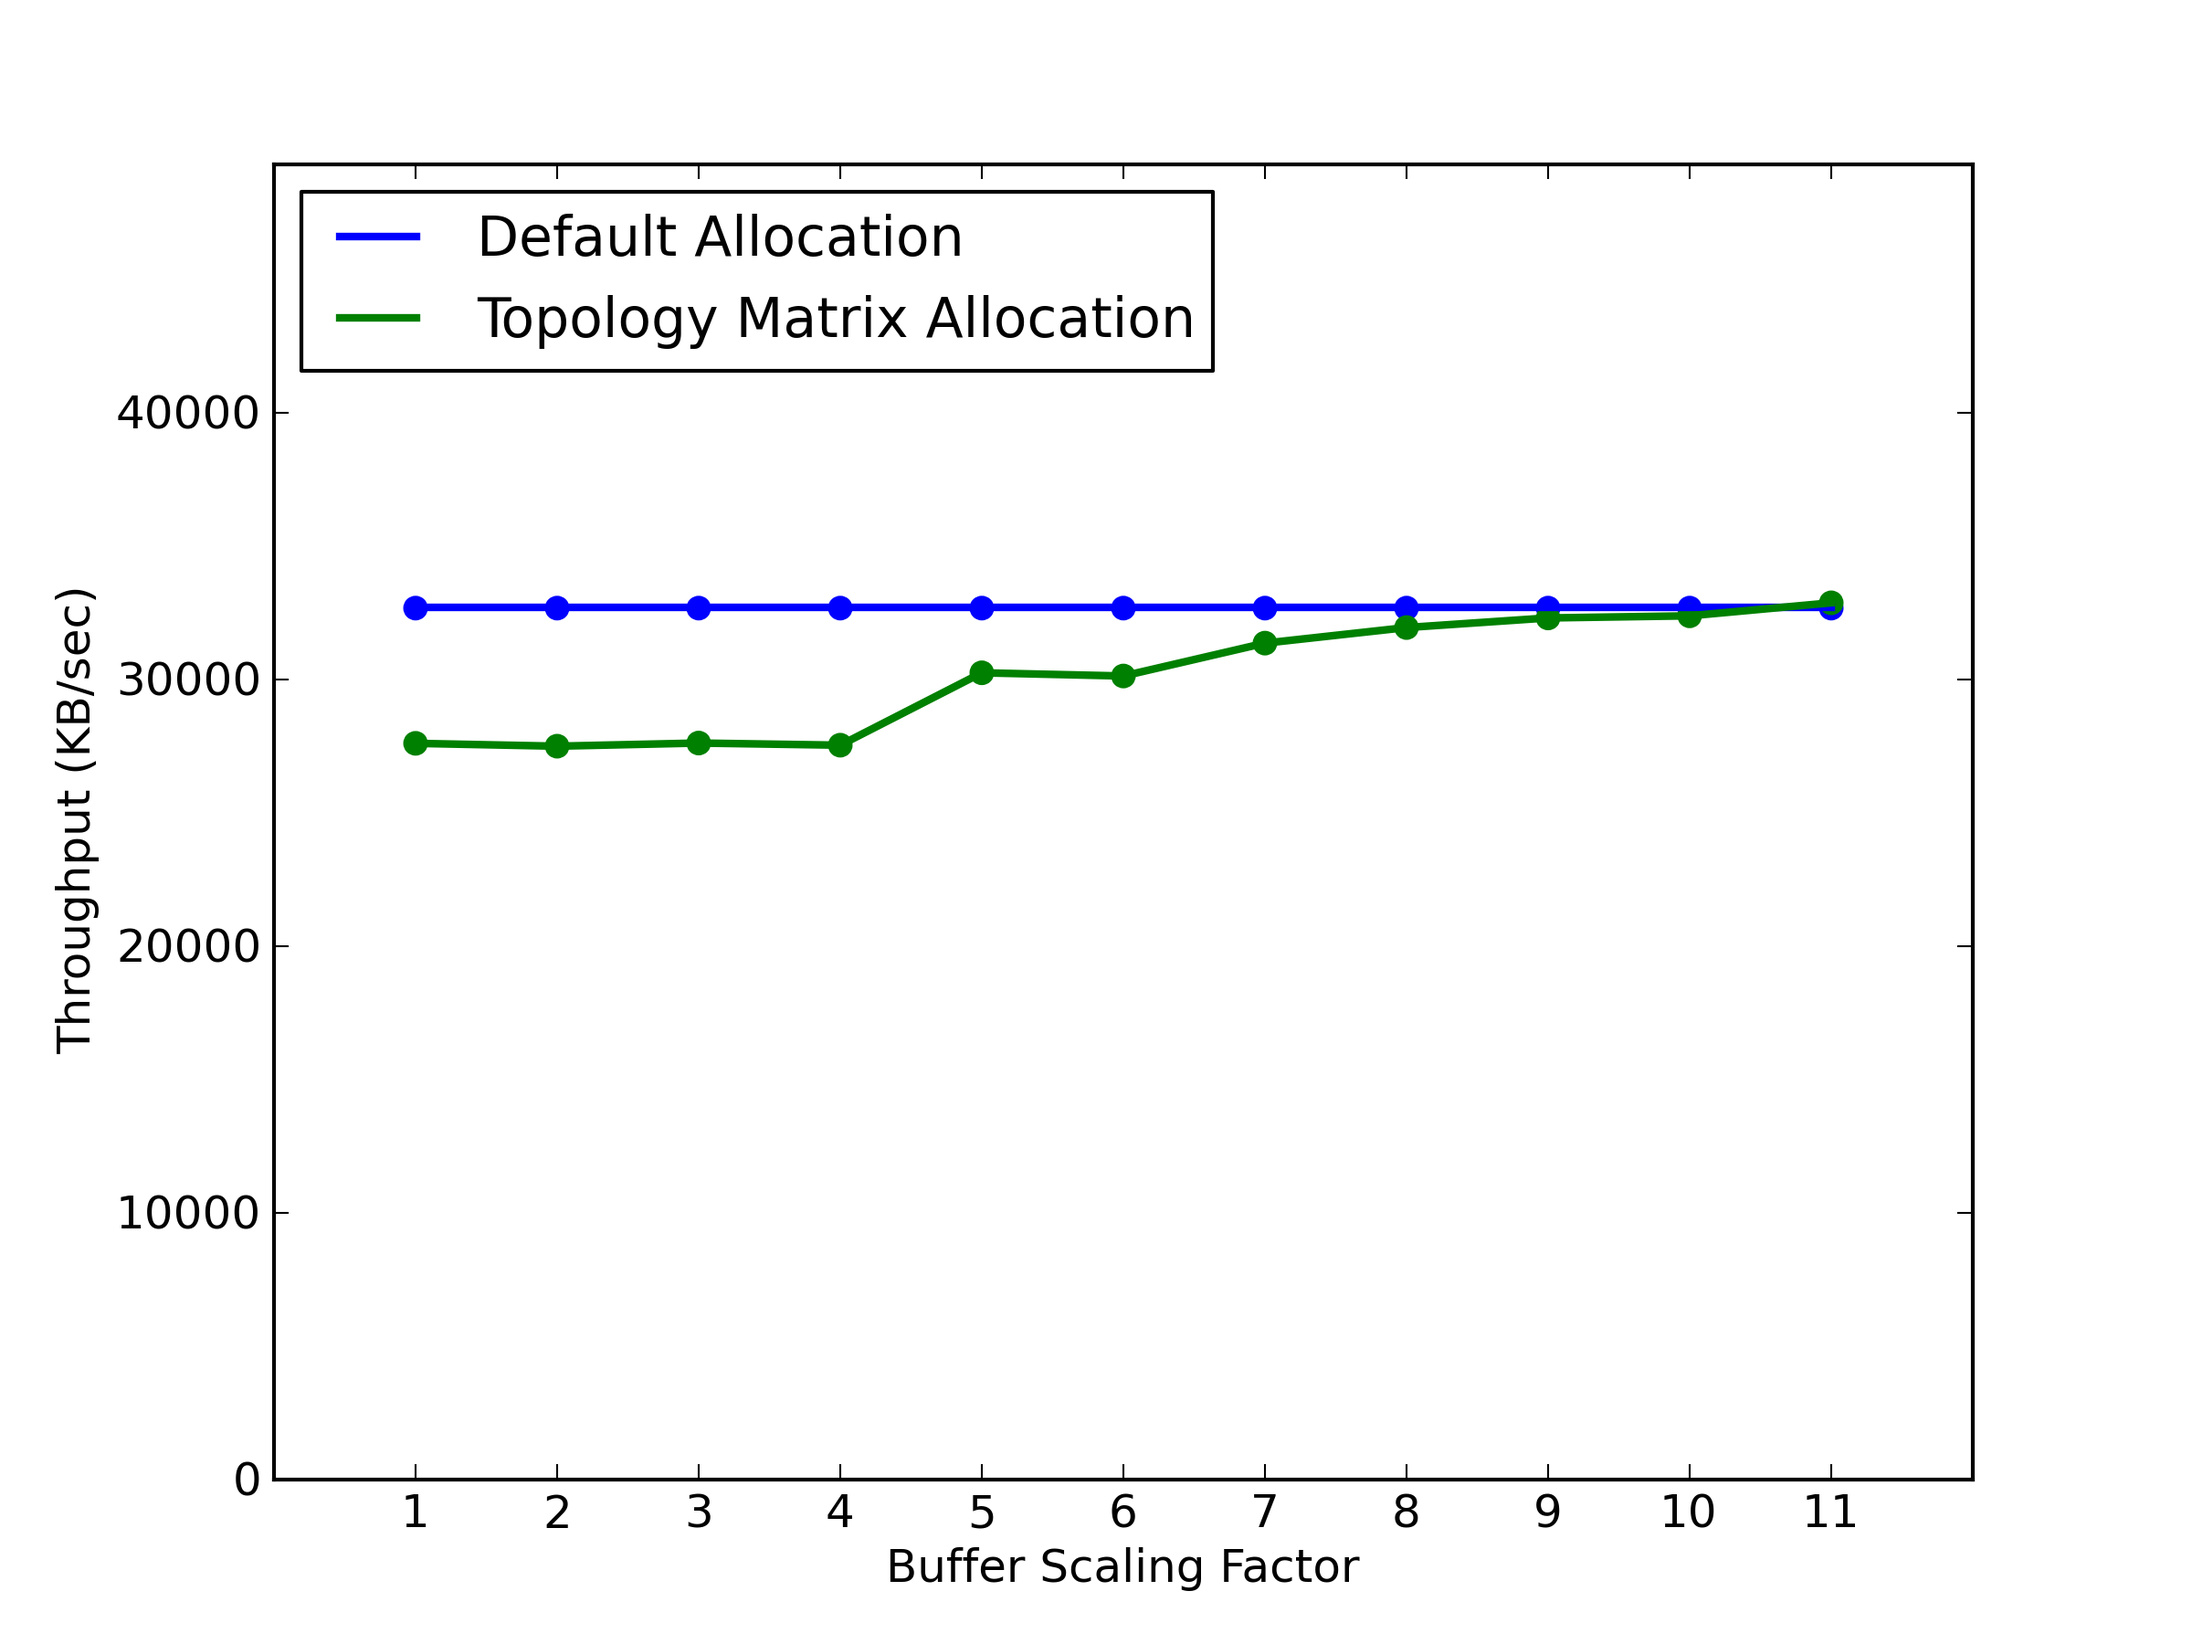
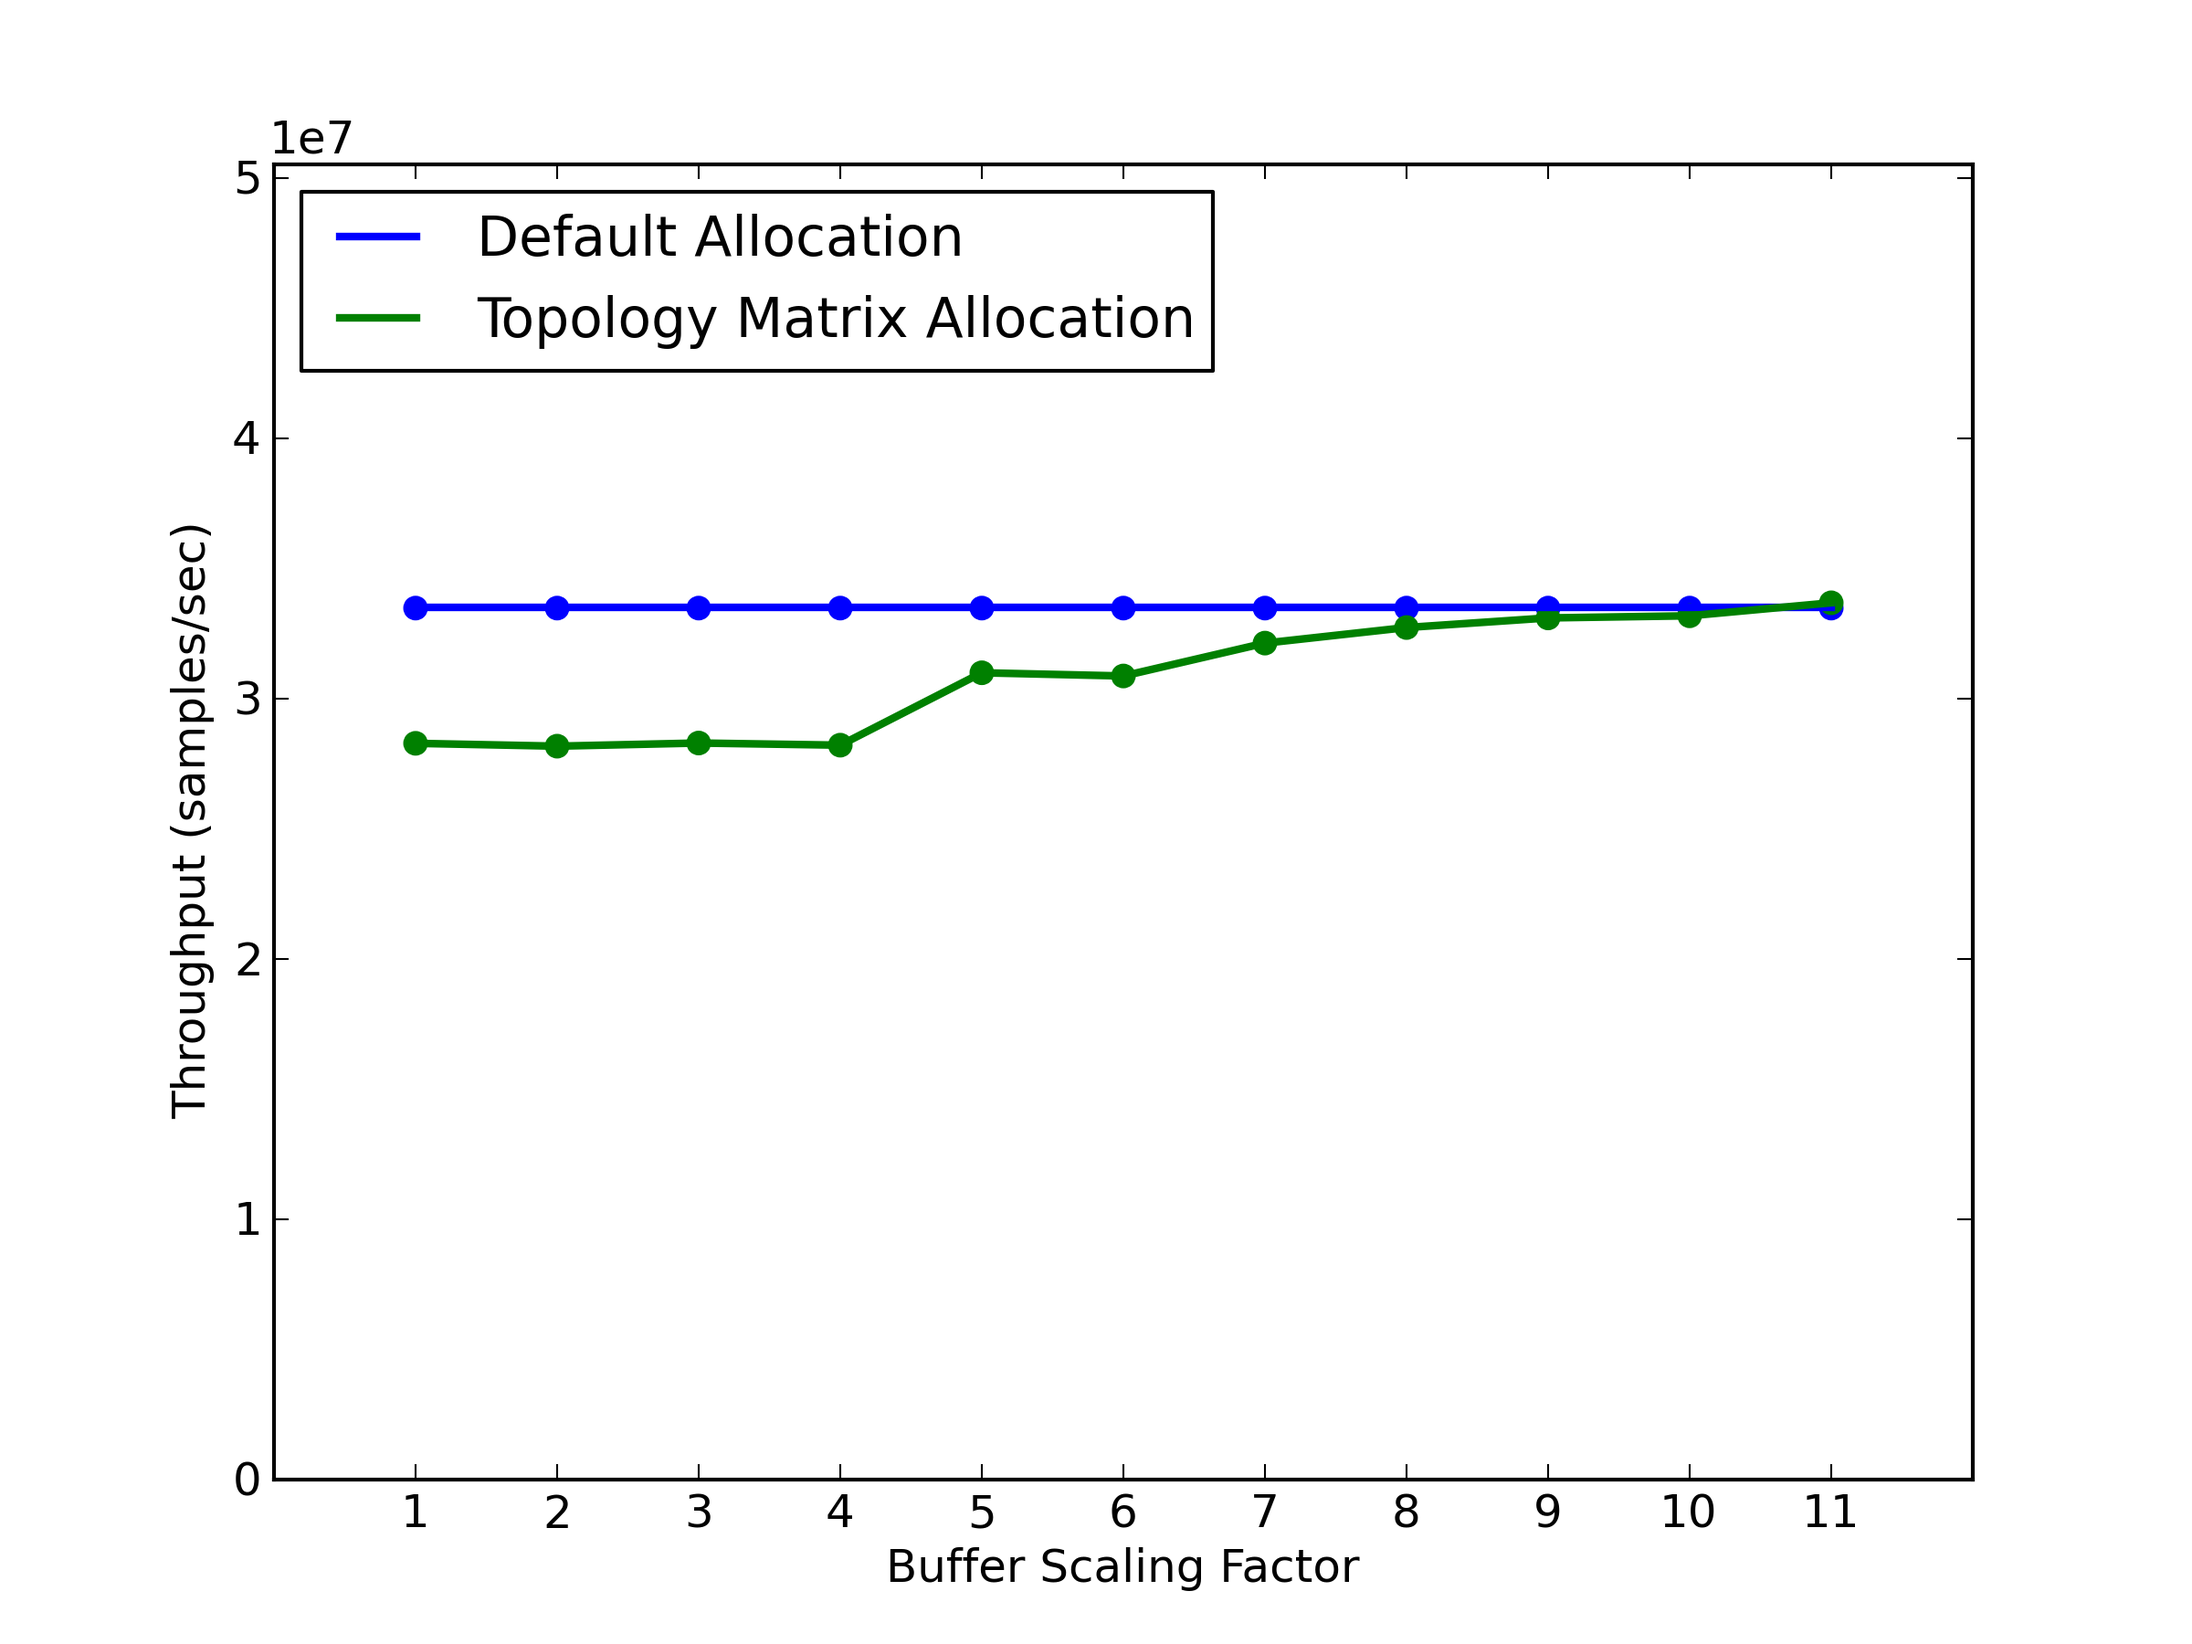
fix graphs where throughput now is samples/sec

diff --git a/special_graphing.py b/special_graphing.py
@@ -152,7 +152,7 @@ class ce_interface:
             scatter(vect_vect_loc, self.thru_vect_top[i], linewidth=2.0, color=color_loc[i])
 
         xlabel('Buffer Scaling Factor')
-        ylabel('Throughput (KB/sec)')
+        ylabel('Throughput (samples/sec)')
         legend(loc= 'upper left')
         # set X-ticks
         set_xticks = np.linspace(vect_vect_loc[0], vect_vect_loc[len_vect-1], len_vect, endpoint=True)
@@ -245,18 +245,23 @@ class ce_interface:
                 # divide by 1024 to make into KB/s
                 sanity_check = sanity_check + 1
                 if(run_num is 0):
-                    value = float(tokens[2])/1024
+                    #value = float(tokens[2])/1024
+                    value = float(tokens[2])
                     value = value/run_len                    
                     thru_vect_local.extend([value])
                 else:
-                    value = float(tokens[2])/1024
+                    #value = float(tokens[2])/1024
+                    value = float(tokens[2])
                     value = value/run_len
                     thru_vect_local[last_ind] = thru_vect_local[last_ind] + value                    
             elif "configuration_time" in line:
                 sanity_check = sanity_check + 1
                 if(run_num is 0):
                     value = float(tokens[2])*1000
-                    value = value/run_len                    
+                    value = value/run_len
+                    #print "line= ", line
+                    #print "value= ", value
+                    #raw_input ('Press Enter to continue: ')
                     config_vect_local.extend([value])
                 else:
                     value = float(tokens[2])*1000
@@ -281,7 +286,7 @@ if __name__ == "__main__":
     num_for_average     = 10
     start_vect          = 0 
     vectorization_times = 15
-    token_size_size     = 1024 
+    token_size_size     = 1
     top_index           = 0
 
     ce_handler               = ce_interface()    
